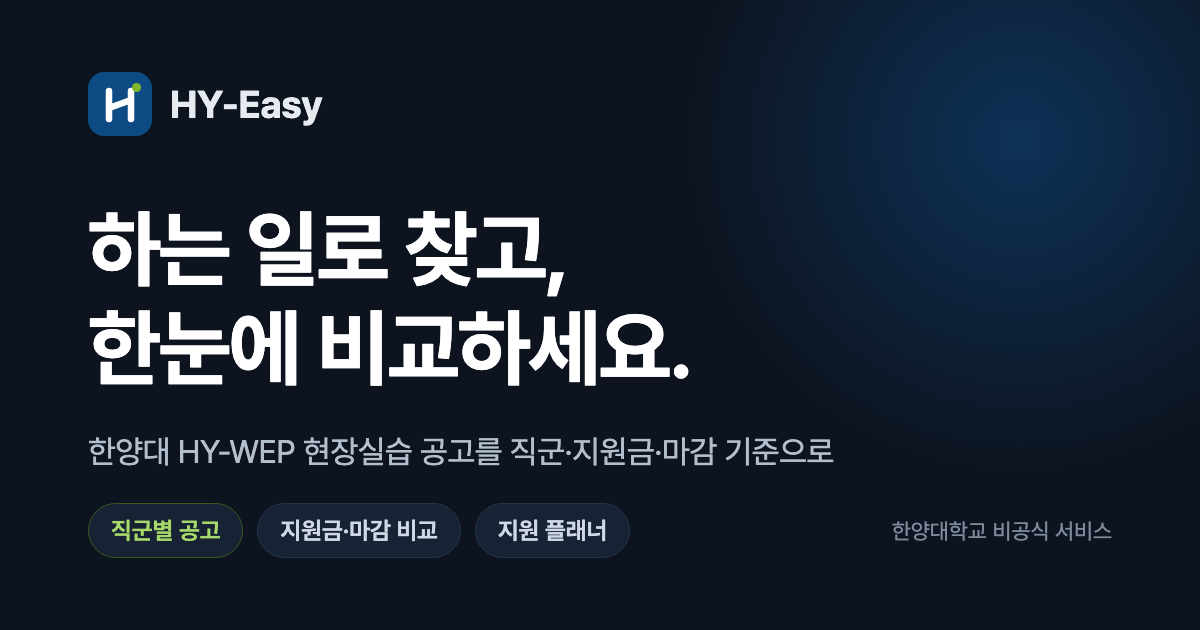
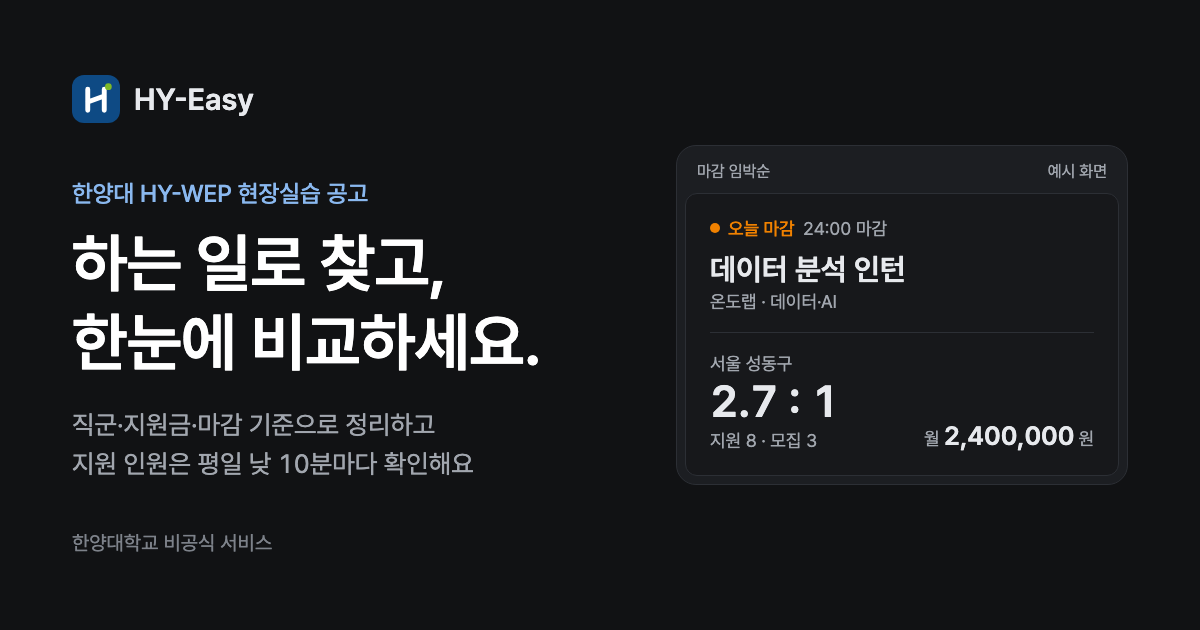
style: unslop the login page and the share image
The landing had a radial blue wash, an 800-weight headline, accent check
marks on the feature list and a three-row preview of made-up postings that
did not look like the app. The wash and the dark-theme shadow are gone,
the headline is 600 and the rest 400 to 500, and the feature list is quiet
muted text. The preview is now the app's own posting card with a fictional
posting (today's deadline, a one-line summary, the 2.7 : 1 competition
ratio and the stipend) plus two shorter rows, labelled 예시 화면; it is the
only place with color. The lead now says applicant counts are refreshed
every ten minutes on weekday daytime, which is what the collector does.

The share image follows the same direction: flat ground, no pill chips,
and the same example card beside the headline. Its URL gains ?v=2 so
KakaoTalk fetches the new image instead of its cached preview.

diff --git a/src/app/login/login.css b/src/app/login/login.css
@@ -7,7 +7,7 @@
   display: flex;
   flex-direction: column;
   min-height: 100dvh;
-  background: radial-gradient(60rem 32rem at 85% -10%, var(--color-accent-soft), transparent 70%), var(--color-paper);
+  background: var(--color-paper);
 }
 .landing-header,
 .landing-footer {
@@ -27,7 +27,7 @@
   min-height: 44px;
   color: var(--color-ink-2);
   font-size: var(--text-sm);
-  font-weight: 600;
+  font-weight: 500;
   text-decoration: none;
 }
 .landing-header > a:last-child:hover {
@@ -48,15 +48,15 @@
 .landing-eyebrow {
   color: var(--color-accent);
   font-size: var(--text-sm);
-  font-weight: 700;
+  font-weight: 500;
 }
 .landing-copy h1 {
   max-width: none;
   margin-top: var(--space-sm);
   font-size: clamp(var(--text-2xl), 4.2vw, 2.75rem);
-  font-weight: 800;
-  line-height: 1.22;
-  letter-spacing: -0.02em;
+  font-weight: 600;
+  line-height: 1.24;
+  letter-spacing: -0.01em;
 }
 .landing-lead {
   max-width: 30rem;
@@ -157,84 +157,154 @@
 .landing-features li {
   display: inline-flex;
   align-items: center;
-  gap: var(--space-2xs);
-  color: var(--color-ink-2);
+  gap: var(--space-xs);
+  color: var(--color-muted);
   font-size: var(--text-sm);
-  font-weight: 600;
 }
 .landing-features svg {
-  color: var(--color-accent);
+  color: var(--color-muted);
 }
 
-/* Preview of the postings list */
+/*
+ * Preview: the app's posting card with a fictional posting, the one place on this page with color (the orange
+ * deadline and the large competition ratio). Hairlines and surface steps instead of shadows.
+ */
 .landing-preview {
+  padding: var(--space-xs);
+  border: 1px solid var(--color-rule);
+  /* Nested radius: the card inside keeps --radius-card (12) with 8 of padding, so the panel is 20. */
+  border-radius: 20px;
+  background: var(--color-paper-2);
+}
+.landing-preview-head {
+  display: flex;
+  justify-content: space-between;
+  padding: var(--space-xs) var(--space-sm) var(--space-sm);
+  color: var(--color-muted);
+  font-size: var(--text-xs);
+}
+.preview-card {
   padding: var(--space-lg);
   border: 1px solid var(--color-rule);
   border-radius: var(--radius-card);
   background: var(--color-surface);
-  box-shadow: var(--shadow-float);
 }
-.landing-preview-head {
+.preview-due {
+  display: flex;
+  align-items: center;
+  gap: var(--space-xs);
+  color: var(--color-muted);
+  font-size: var(--text-sm);
+  font-variant-numeric: tabular-nums;
+}
+.preview-due b {
+  color: var(--color-warn);
+  font-weight: 500;
+}
+.preview-dot {
+  width: 8px;
+  height: 8px;
+  border-radius: 50%;
+  background: var(--color-warn-mark);
+}
+.preview-card h2 {
+  margin-top: var(--space-sm);
+  font-size: var(--text-xl);
+  font-weight: 600;
+  line-height: 1.3;
+}
+.preview-meta {
+  margin-top: var(--space-3xs);
+  color: var(--color-muted);
+  font-size: var(--text-sm);
+}
+.preview-summary {
+  margin-top: var(--space-sm);
+  color: var(--color-ink-2);
+  font-size: var(--text-sm);
+  line-height: 1.6;
+}
+.preview-facts {
+  display: flex;
+  align-items: flex-end;
+  justify-content: space-between;
+  gap: var(--space-md);
+  margin-top: var(--space-md);
+  padding-top: var(--space-md);
+  border-top: 1px solid var(--color-rule);
+}
+.preview-facts > div {
+  display: flex;
+  flex-direction: column;
+}
+.preview-facts .preview-meta {
+  margin-top: 0;
+}
+.preview-ratio {
+  margin: var(--space-2xs) 0 var(--space-3xs);
+  font-size: var(--text-2xl);
+  font-weight: 600;
+  line-height: 1.1;
+  font-variant-numeric: tabular-nums;
+}
+.preview-stipend {
   display: flex;
   align-items: baseline;
-  justify-content: space-between;
-  padding-bottom: var(--space-sm);
-  border-bottom: 1px solid var(--color-rule);
-}
-.landing-preview-head span {
+  gap: var(--space-3xs);
   color: var(--color-muted);
-  font-size: var(--text-xs);
-}
-.landing-preview ul {
-  list-style: none;
-}
-.landing-preview li {
-  display: grid;
-  grid-template-columns: auto minmax(0, 1fr) auto;
-  align-items: center;
-  gap: var(--space-sm);
-  padding: var(--space-md) 0;
-  border-bottom: 1px solid var(--color-rule);
-}
-.landing-preview li:last-child {
-  border-bottom: 0;
-  padding-bottom: 0;
-}
-.landing-role {
-  padding: 0 var(--space-xs);
-  border-radius: var(--radius-chip);
-  background: var(--color-accent-soft);
-  color: var(--color-accent);
-  font-size: var(--text-xs);
-  font-weight: 700;
-  line-height: 1.8;
+  font-size: var(--text-sm);
   white-space: nowrap;
 }
-.landing-row-text {
+.preview-stipend b {
+  color: var(--color-ink);
+  font-size: var(--text-lg);
+  font-weight: 600;
+  font-variant-numeric: tabular-nums;
+}
+.preview-rows {
+  list-style: none;
+}
+.preview-rows li {
+  display: grid;
+  grid-template-columns: 4.5rem minmax(0, 1fr) auto;
+  align-items: center;
+  gap: var(--space-sm);
+  padding: var(--space-sm);
+  border-bottom: 1px solid var(--color-rule);
+}
+.preview-rows li:first-child {
+  margin-top: var(--space-xs);
+}
+.preview-rows li:last-child {
+  border-bottom: 0;
+}
+.preview-day {
+  color: var(--color-muted);
+  font-size: var(--text-sm);
+  font-variant-numeric: tabular-nums;
+}
+.preview-day.soon {
+  color: var(--color-warn);
+}
+.preview-row-text {
   display: flex;
   flex-direction: column;
   min-width: 0;
 }
-.landing-row-text b {
+.preview-row-text b {
   overflow: hidden;
+  font-weight: 500;
   text-overflow: ellipsis;
   white-space: nowrap;
 }
-.landing-row-text small {
+.preview-row-text span {
   color: var(--color-muted);
   font-size: var(--text-sm);
 }
-.landing-due {
+.preview-row-ratio {
   color: var(--color-ink-2);
   font-size: var(--text-sm);
-  font-weight: 700;
   font-variant-numeric: tabular-nums;
-}
-.landing-due.soon {
-  padding: 0 var(--space-xs);
-  border-radius: var(--radius-chip);
-  background: var(--color-warn-soft);
-  color: var(--color-warn);
 }
 
 .landing-footer {
@@ -268,7 +338,10 @@
     padding-left: var(--space-md);
     padding-right: var(--space-md);
   }
-  .landing-preview {
+  .landing-body {
+    padding-bottom: var(--space-xl);
+  }
+  .preview-card {
     padding: var(--space-md);
   }
 }

diff --git a/src/app/login/page.tsx b/src/app/login/page.tsx
@@ -16,11 +16,25 @@ const errors: Record<string, string> = {
 };
 const FEATURES = ["하는 일로 찾는 직군", "지원금·마감 나란히 비교", "지원 일정 관리"];
 
-/** Illustrative rows for the preview card. Fictional companies; marked aria-hidden as decoration. */
+/**
+ * The preview mirrors the app's posting card (src/components/workspace/posting-cards.tsx) with fictional postings:
+ * real ones are visible only to signed-in students. Marked aria-hidden as an illustration.
+ */
+const PREVIEW_MAIN = {
+  due: "오늘 마감",
+  time: "24:00",
+  title: "데이터 분석 인턴",
+  company: "온도랩",
+  role: "데이터·AI",
+  summary: "주문·재고 데이터를 SQL로 정리하고 주간 리포트 대시보드를 만드는 실습이에요.",
+  location: "서울 성동구",
+  ratio: "2.7 : 1",
+  counts: "지원 8 · 모집 3",
+  stipend: { prefix: "월", amount: "2,400,000", suffix: "원" },
+};
 const PREVIEW_ROWS = [
-  { role: "개발", company: "가상테크", title: "백엔드 개발 인턴", stipend: "월 220만원", due: "D-3", soon: true },
-  { role: "마케팅", company: "브랜드랩", title: "퍼포먼스 마케팅", stipend: "월 200만원", due: "D-6", soon: false },
-  { role: "데이터·AI", company: "온도랩", title: "데이터 분석 인턴", stipend: "월 240만원", due: "D-12", soon: false },
+  { due: "D-3", soon: true, title: "퍼포먼스 마케팅 인턴", company: "브랜드랩", role: "마케팅", ratio: "1.5 : 1" },
+  { due: "D-6", soon: false, title: "백엔드 개발 인턴", company: "가온소프트", role: "개발", ratio: "0.5 : 1" },
 ];
 
 /** The in-app browser notice for this request, or null in a normal browser. */
@@ -75,23 +89,48 @@ function SignIn({ error, notice }: { error?: string; notice: React.ReactNode }) 
 }
 
 function Preview() {
+  const main = PREVIEW_MAIN;
   return (
     <div className="landing-preview" aria-hidden="true">
       <div className="landing-preview-head">
-        <b>모집 중 공고</b>
         <span>마감 임박순</span>
+        <span>예시 화면</span>
       </div>
-      <ul>
+      <article className="preview-card">
+        <p className="preview-due">
+          <span className="preview-dot" />
+          <b>{main.due}</b>
+          <span>{main.time} 마감</span>
+        </p>
+        <h2>{main.title}</h2>
+        <p className="preview-meta">
+          {main.company} · {main.role}
+        </p>
+        <p className="preview-summary">{main.summary}</p>
+        <div className="preview-facts">
+          <div>
+            <span className="preview-meta">{main.location}</span>
+            <b className="preview-ratio">{main.ratio}</b>
+            <span className="preview-meta">{main.counts}</span>
+          </div>
+          <p className="preview-stipend">
+            <span>{main.stipend.prefix}</span>
+            <b>{main.stipend.amount}</b>
+            <span>{main.stipend.suffix}</span>
+          </p>
+        </div>
+      </article>
+      <ul className="preview-rows">
         {PREVIEW_ROWS.map(row => (
           <li key={row.title}>
-            <span className="landing-role">{row.role}</span>
-            <span className="landing-row-text">
+            <span className={row.soon ? "preview-day soon" : "preview-day"}>{row.due}</span>
+            <span className="preview-row-text">
               <b>{row.title}</b>
-              <small>
-                {row.company} · {row.stipend}
-              </small>
+              <span>
+                {row.company} · {row.role}
+              </span>
             </span>
-            <span className={row.soon ? "landing-due soon" : "landing-due"}>{row.due}</span>
+            <span className="preview-row-ratio">{row.ratio}</span>
           </li>
         ))}
       </ul>
@@ -123,14 +162,14 @@ export default async function Login({ searchParams }: { searchParams: Promise<{ 
       </header>
       <div className="landing-body">
         <section className="landing-copy">
-          <p className="landing-eyebrow">한양대 현장실습 공고</p>
+          <p className="landing-eyebrow">한양대 HY-WEP 현장실습 공고</p>
           <h1>
             하는 일로 찾고,
             <br />
             한눈에 비교하세요.
           </h1>
           <p className="landing-lead">
-            HY-WEP 공고를 직군·지원금·마감 기준으로 정리했어요. 학교 Google 계정으로 바로 시작할 수 있어요.
+            HY-WEP 공고를 직군·지원금·마감 기준으로 정리했어요. 지원 인원은 평일 낮 10분마다 새로 확인해요.
           </p>
           <SignIn error={error} notice={notice} />
           <ul className="landing-features">

diff --git a/src/app/layout.tsx b/src/app/layout.tsx
@@ -8,7 +8,8 @@ const SITE_URL = "https://hy-easy.vercel.app";
 const TITLE = "HY-Easy · 하이웹을 더 간단히";
 const SHARE_DESCRIPTION = "한양대 HY-WEP 현장실습 공고를 직군·지원금·마감 기준으로 찾고 비교해요.";
 // Link previews in KakaoTalk, Everytime and messengers read these tags (they ignore robots noindex).
-const SHARE_IMAGE = { url: "/og.png", width: 1200, height: 630, alt: "HY-Easy, 하는 일로 찾고 한눈에 비교하세요." };
+// Bump ?v= when og.png changes: KakaoTalk caches previews by image URL.
+const SHARE_IMAGE = { url: "/og.png?v=2", width: 1200, height: 630, alt: "HY-Easy, 하는 일로 찾고 한눈에 비교하세요." };
 
 export const metadata: Metadata = {
   metadataBase: new URL(SITE_URL),
